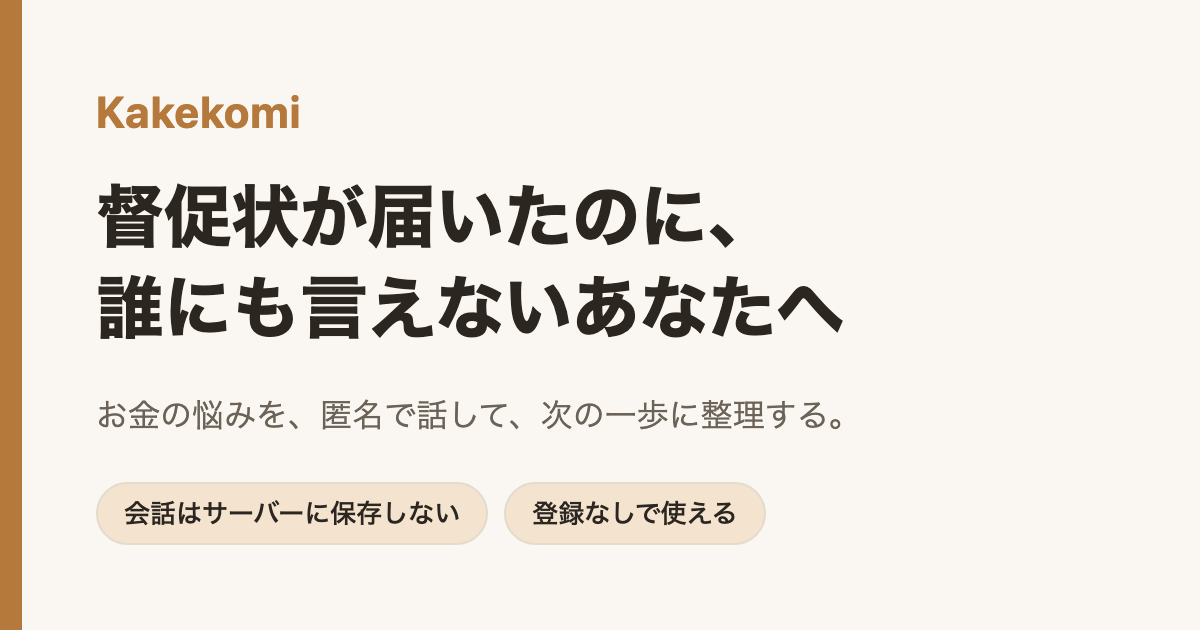
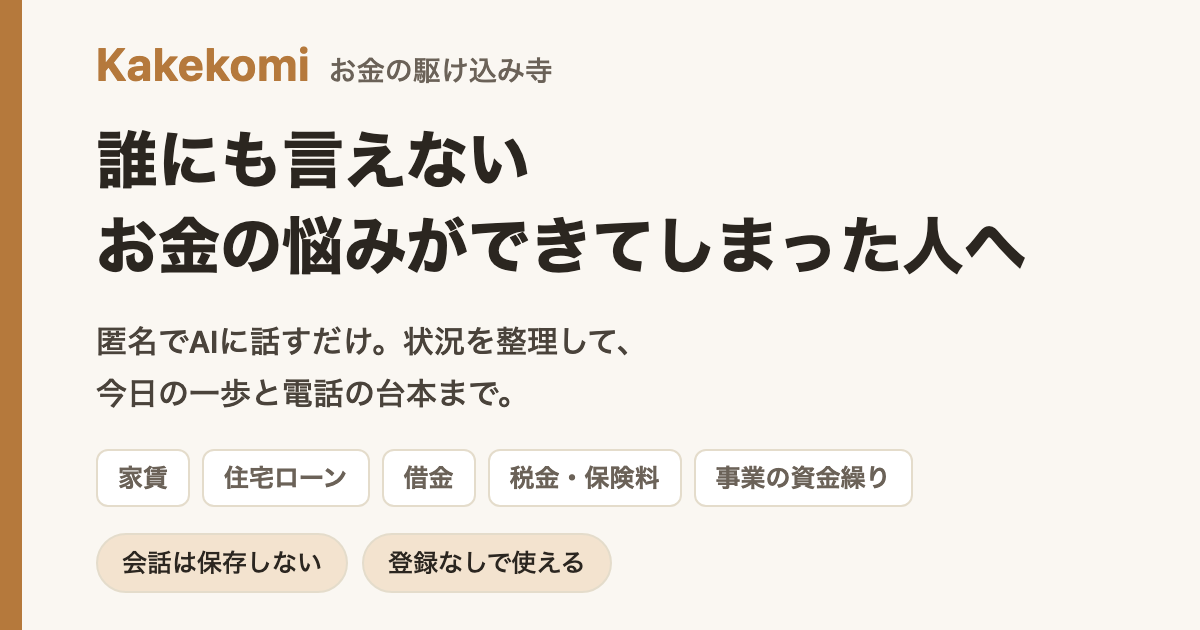
Make the headline and share text clearer and more inclusive
- Headline: "誰にも言えないお金の悩みができてしまった人へ" (no longer assumes a
  demand notice has arrived)
- Title, meta description, OGP title/description and the share image now say
  what the service is: anonymous AI chat, a step for today, and a call script
- Welcome text explains what it does in one sentence

Changed region(s): [[0.0617, 0.0603, 0.8633, 0.573], [0.0617, 0.6032, 0.74, 0.9651]]

diff --git a/frontend/index.html b/frontend/index.html
@@ -3,12 +3,12 @@
 <head>
 <meta charset="utf-8" />
 <meta name="viewport" content="width=device-width, initial-scale=1" />
-<title>Kakekomi｜督促状が届いたのに、誰にも言えないあなたへ</title>
-<meta name="description" content="督促状が届いたのに、誰にも言えない。そんなお金の悩みを、匿名で話して、次の一歩に整理できます。相談内容はサーバーに保存されません。" />
+<title>Kakekomi（お金の駆け込み寺）｜誰にも言えないお金の悩みができてしまった人へ</title>
+<meta name="description" content="家賃・住宅ローン・借金・税金・資金繰りなど、誰にも言えないお金の悩みを、匿名でAIに話すだけ。状況を整理して、今日の一歩と電話の台本まで作ります。会話はサーバーに保存されません。" />
 <meta property="og:type" content="website" />
 <meta property="og:site_name" content="Kakekomi" />
-<meta property="og:title" content="Kakekomi｜督促状が届いたのに、誰にも言えないあなたへ" />
-<meta property="og:description" content="お金の悩みを、匿名で話して、次の一歩に整理できます。相談内容はサーバーに保存されません。" />
+<meta property="og:title" content="Kakekomi（お金の駆け込み寺）｜誰にも言えないお金の悩みができてしまった人へ" />
+<meta property="og:description" content="匿名でAIに話すだけ。状況を整理して、今日の一歩と電話の台本まで。登録なしで使えて、会話は保存されません。" />
 <meta property="og:url" content="https://kakekomi-worker.misty-choru.workers.dev/" />
 <meta property="og:image" content="https://kakekomi-worker.misty-choru.workers.dev/ogp.png" />
 <meta property="og:locale" content="ja_JP" />

diff --git a/frontend/app.js b/frontend/app.js
@@ -102,7 +102,7 @@ async function authedFetch(path, options = {}) {
 // ---- 画面描画 ----
 
 const EXAMPLE_PROMPTS = [
-  "督促状が届いたけれど、誰にも言えずにいます",
+  "お金のことで悩んでいるけれど、誰にも言えずにいます",
   "家賃を滞納してしまい、大家さんから督促状が届きました",
   "借金の返済が苦しくて、毎月の支払いに追われています",
   "収入が減って、今の家賃を払い続けられるか不安です",
@@ -113,8 +113,8 @@ function renderWelcome() {
   const wrap = document.createElement("div");
   wrap.className = "welcome";
   wrap.innerHTML = `
-    <p class="welcome-lead">督促状が届いたのに、誰にも言えずにいませんか。</p>
-    <p class="welcome-sub">ここは、お金の悩みを安心して話せる場所です。うまく書けなくても大丈夫です。<br>思いつくままに書いてください。下の例を選んで、書き換えて送ることもできます。</p>
+    <p class="welcome-lead">誰にも言えないお金の悩みができてしまった人へ。</p>
+    <p class="welcome-sub">匿名・登録なしで、状況を整理して、今日の一歩と電話の台本まで一緒に作ります。<br>うまく書けなくても大丈夫です。思いつくままに書いてください。下の例を選んで、書き換えて送ることもできます。</p>
   `;
   const list = document.createElement("div");
   list.className = "welcome-examples";
